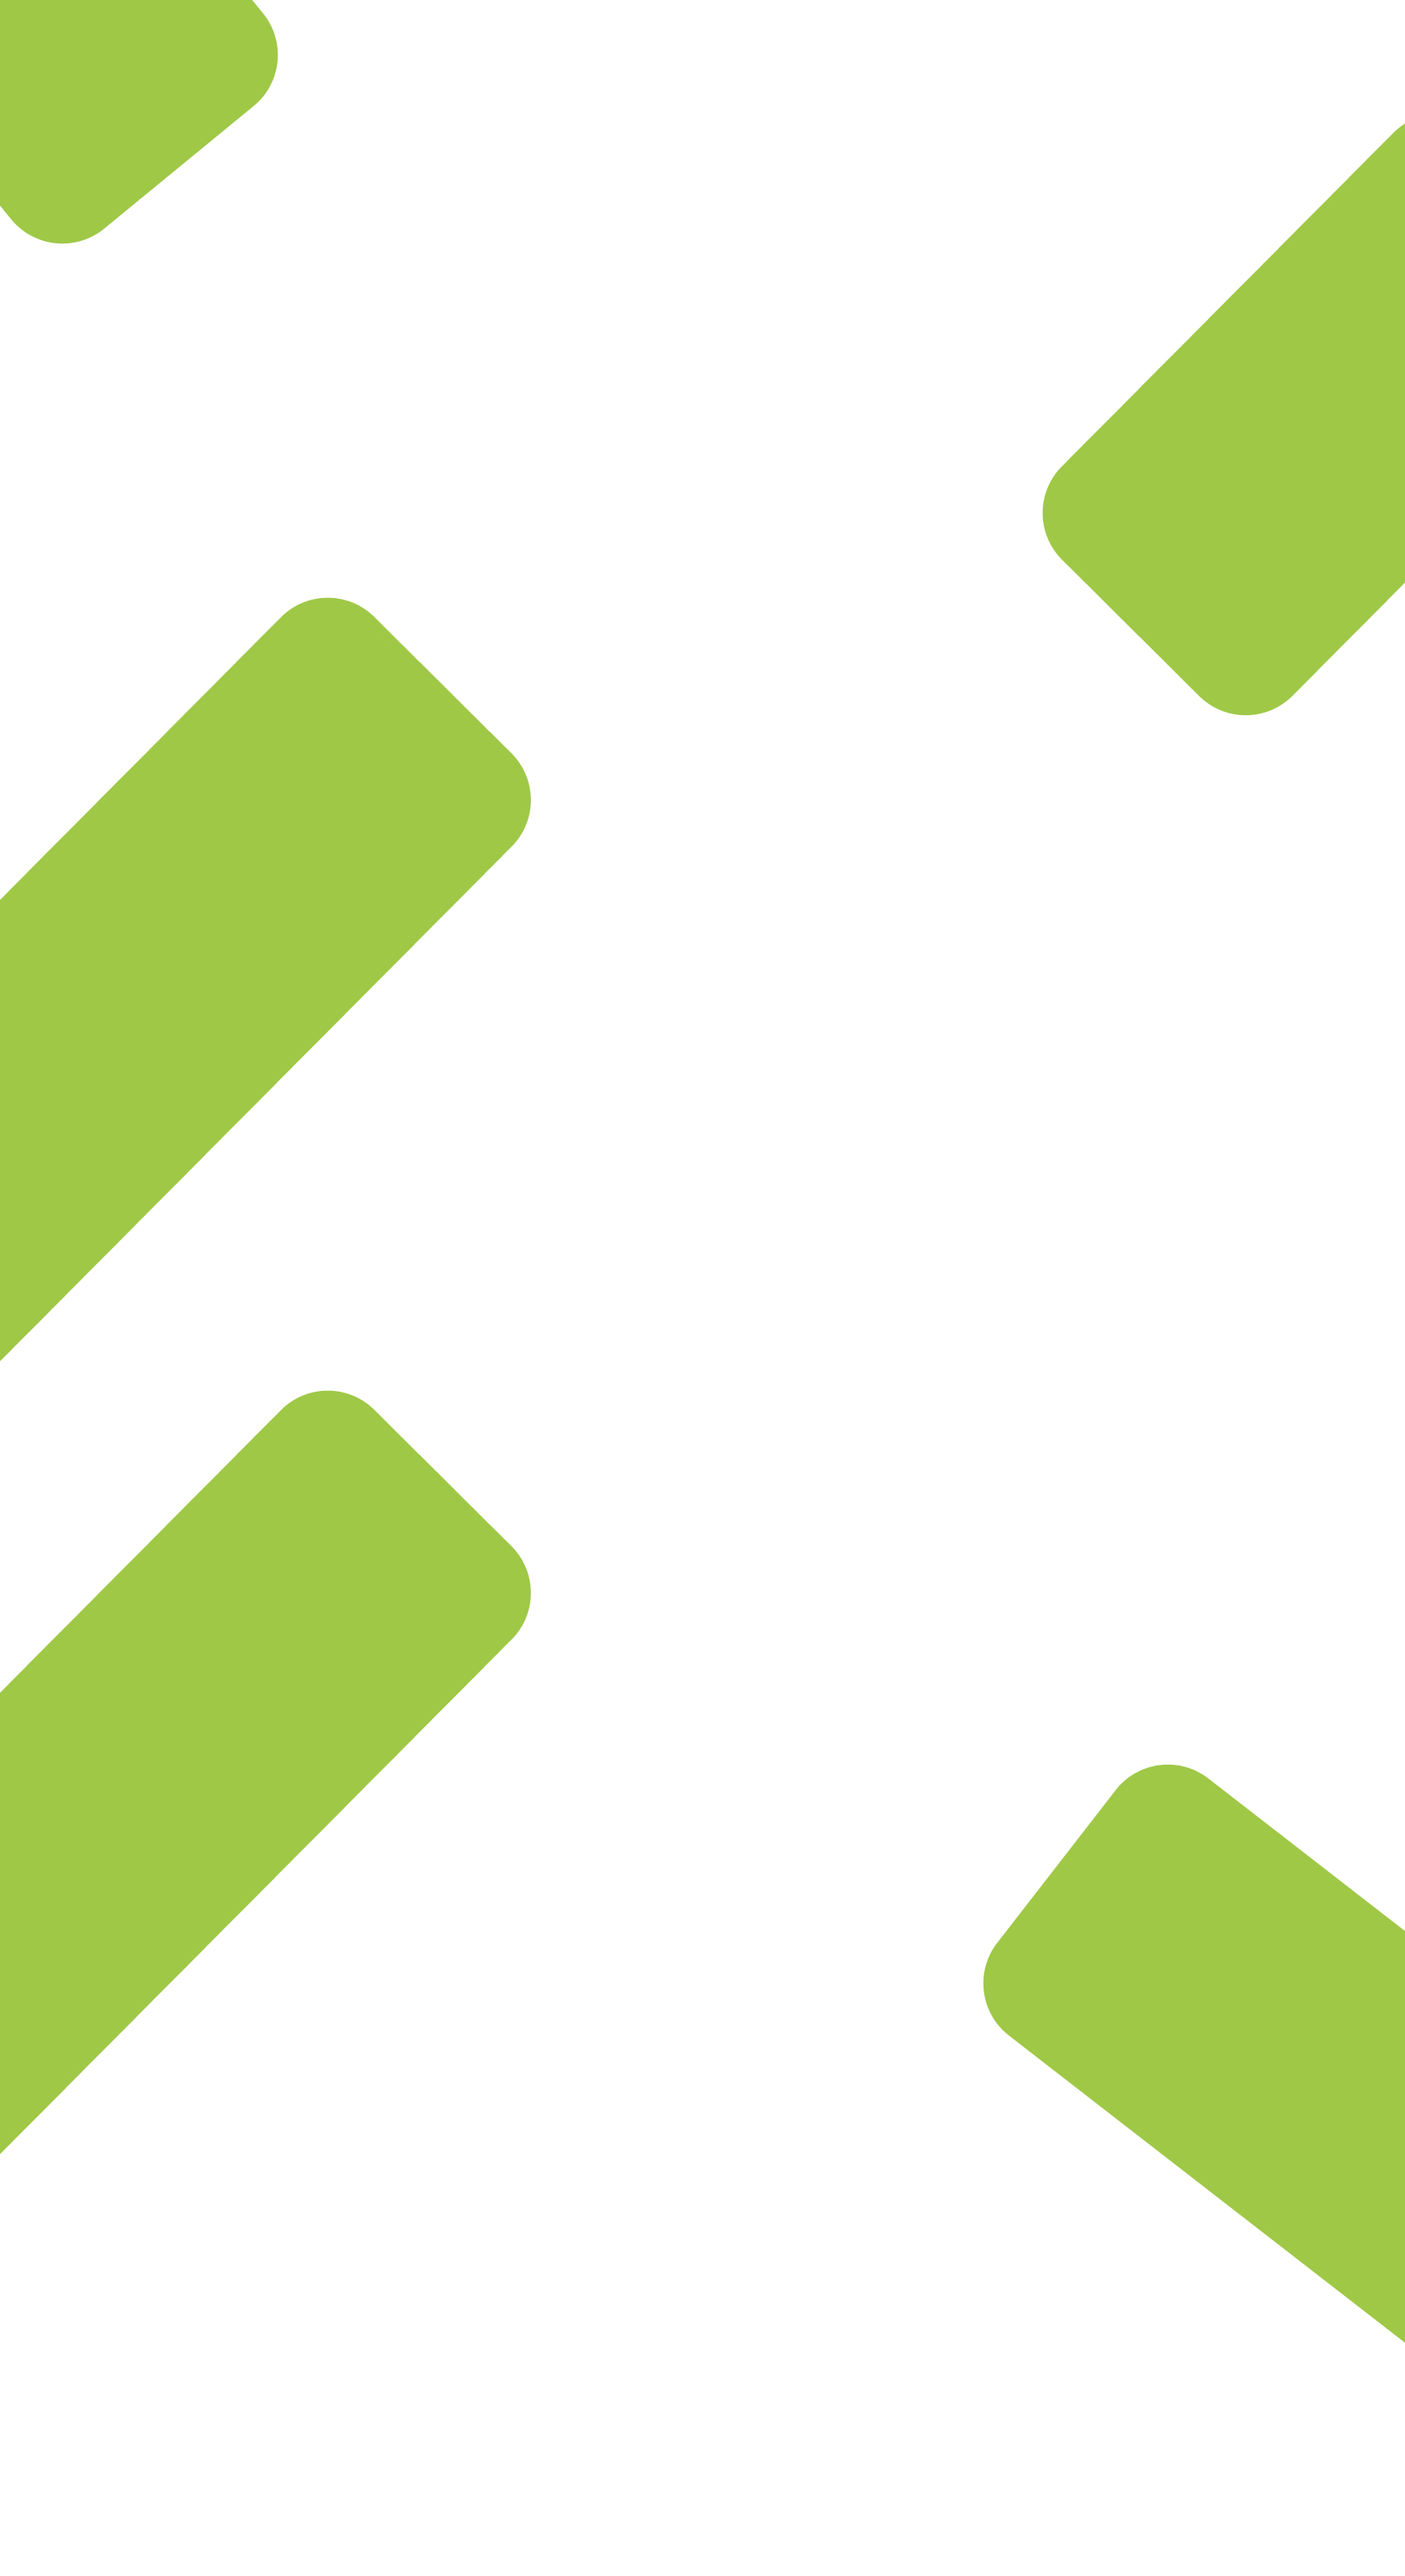
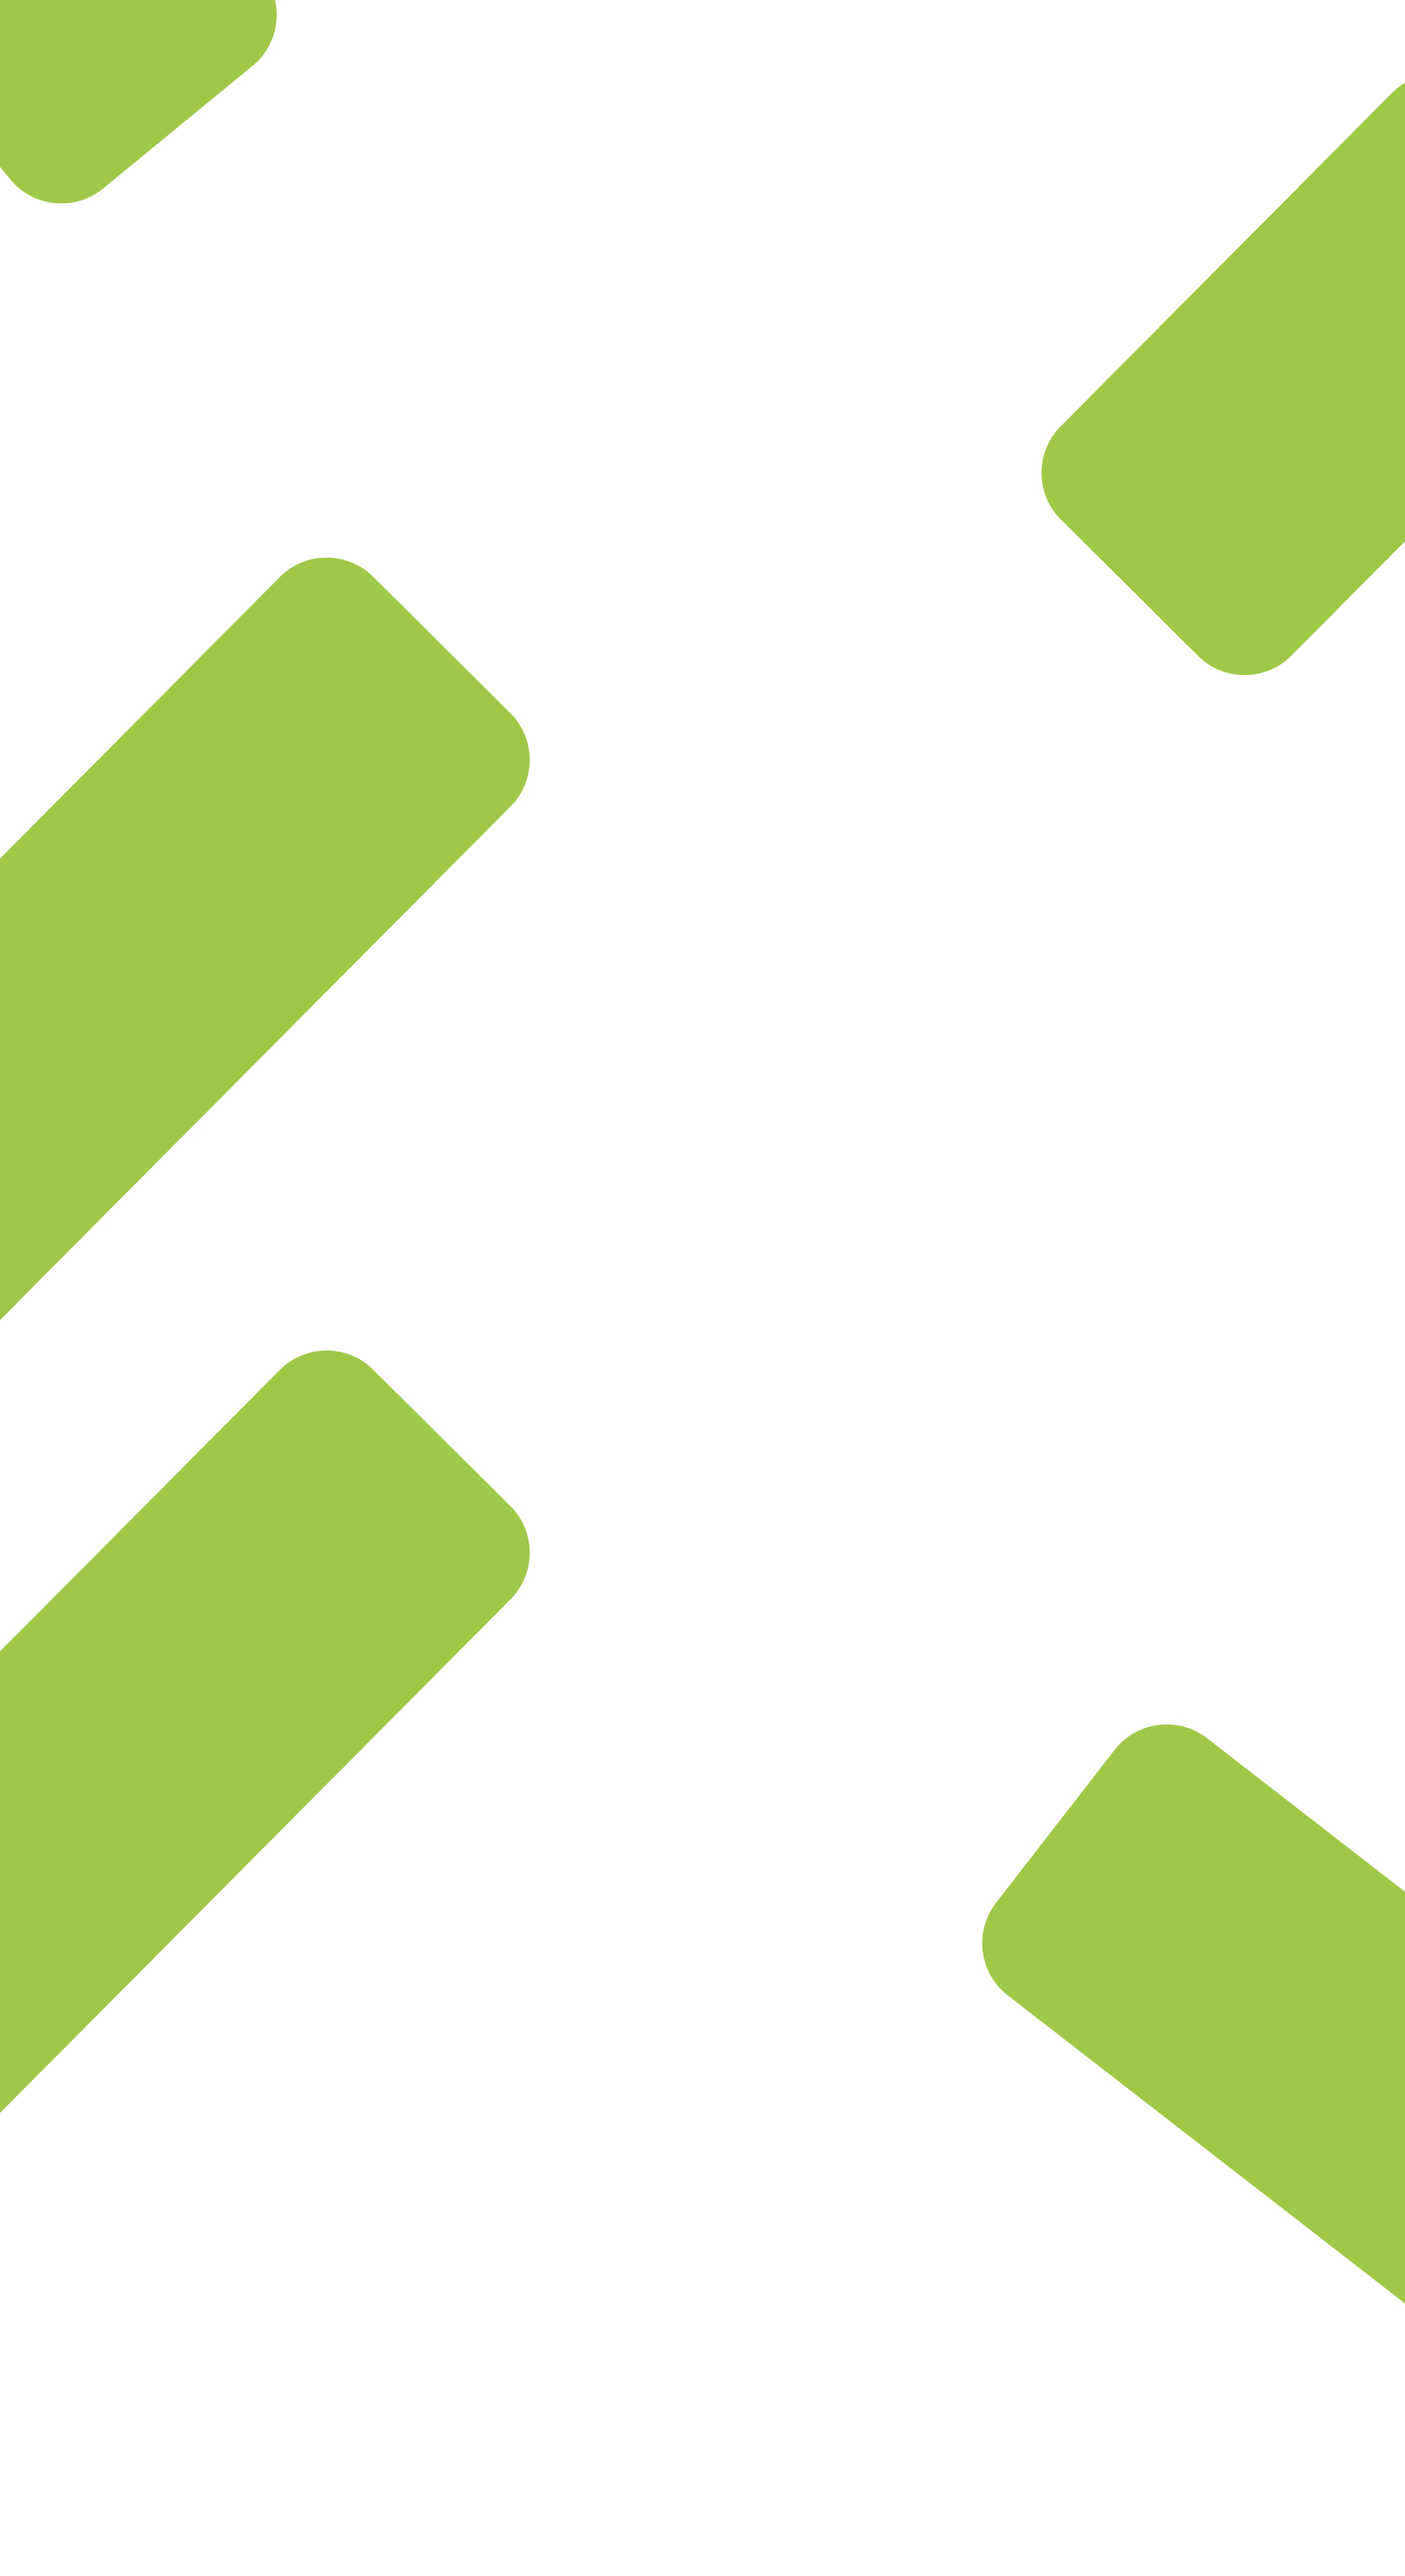
Fixed bg and revised table formatting

diff --git a/src/main/resources/css/common.css b/src/main/resources/css/common.css
@@ -118,22 +118,44 @@ img.top-image {
   flex-direction: row;
   justify-content: space-between;
   align-items: center;
+
 }
 
 .damages-table {
   padding-left: 10%;
   padding-right: 2.5%;
   width: 50%;
-  text-align: center;
-  padding: 5px;
+  padding: 10px;
+  top: 0;
+  margin: 30px;
 }
 
 .damages-table table, .damages-table th, .damages-table td {
   border-top: 5px solid #4F7302;
   border-bottom: 5px solid #4F7302;
   border-collapse: collapse;
-  padding: 5px;
+}
 
+.damages-table th, .damages-table td {
+  padding: 15px 5px;
+  text-align: center;
+}
+
+.damages-table h3 {
+  font-weight: bold;
+  font-size: 25px;
+  color: #000000;
+}
+
+.damages-table h4 {
+  font-weight: bold;
+  font-size: 25px;
+  color: #4F7302;
+}
+
+.damages-table th {
+  /* visibility: collapse;  */
+  display:none;
 }
 
 .damages-button {

diff --git a/src/main/java/app/PageIndex.java b/src/main/java/app/PageIndex.java
@@ -98,6 +98,43 @@ public class PageIndex implements Handler {
                                 <td>Australia</td>
                                 <td>87%</td>
                             </tr>
+                            <tr>
+                                <td>America</td>
+                                <td>95%</td>
+                            </tr>
+                            <tr>
+                                <td>Italy</td>
+                                <td>42%</td>
+                            </tr>
+                            <tr>
+                                <td>Brazil</td>
+                                <td>76%</td>
+                            </tr>
+                        </table>
+                    </div>
+
+                    <div class='damages-table'>
+                        <table>
+                            <tr>
+                                <th>Country</th>
+                                <th>Percentage</th>
+                            </tr>
+                            <tr>
+                                <td><h3>Australia</h3></td>
+                                <td><h4>87%</h4></td>
+                            </tr>
+                            <tr>
+                                <td>America</td>
+                                <td>95%</td>
+                            </tr>
+                            <tr>
+                                <td>Italy</td>
+                                <td>42%</td>
+                            </tr>
+                            <tr>
+                                <td>Brazil</td>
+                                <td>76%</td>
+                            </tr>
                         </table>
                     </div>
                 </div>
